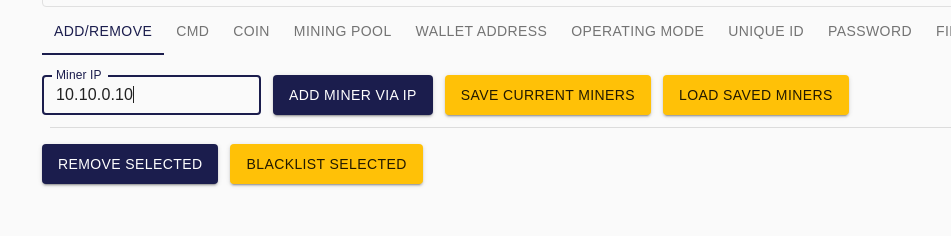
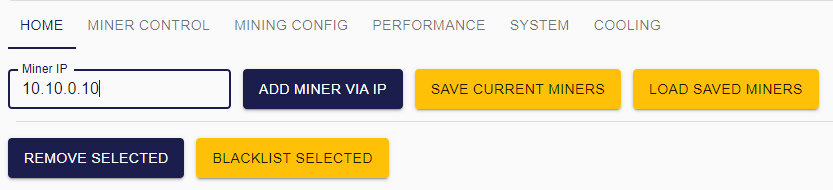
Update dashboard documentation in README

diff --git a/README.md b/README.md
@@ -37,8 +37,7 @@ curl -o- https://raw.githubusercontent.com/nvm-sh/nvm/v0.38.0/install.sh | bash 
 export NVM_DIR="$([ -z "${XDG_CONFIG_HOME-}" ] && printf %s "${HOME}/.nvm" || printf %s "${XDG_CONFIG_HOME}/nvm")"
 [ -s "$NVM_DIR/nvm.sh" ] && \. "$NVM_DIR/nvm.sh" # This loads nvm
 # end of nvm stuff
-nvm install 14
-npm i -g @electron-forge/cli
+nvm install 16
 cd /path/to/epic-dashboard
 npm i
 ```
@@ -59,16 +58,23 @@ To build only a specific executable open the makefile and run the appropriate co
 1. Download the dashboard software from [here](https://github.com/epicblockchain/epic-dashboard/releases/)
 2. Use the sidebar on the left to navigate to tabs.
 
-## Instructions for VPN users
+## Scanning for miners
 
-Note that the software uses MDNS to discover miners on your network. This functionality does not work over a VPN. You will need to navigate to the Miner List tab and manually add miners.
+To discover miners on your network, you can first try using the "Quick Miner Scan" in the sidebar. This will scan the network the computer is currently connected to for miners.
+
+![quick scan](docs/images/quickscan.png)
+
+If none are found or you want to scan additional networks, click on "Advanced Scan" in the sidebar. Enter in the address of the network to scan, and then choose the prefix. An explanation can be found [here](https://docs.netgate.com/pfsense/en/latest/network/cidr.html).
+
+In short, if you ip is 192.168.12.1, /24 will scan 192.168.12.0-255 (256 ips), and /16 will scan 192.168.0-255.0-255 (65,536 ips). If /16 is chosen, the scan may take up to 1 minute depending on the speed of your network and computer.
+
+![advanced scan](docs/images/scan.png)
 
 ## Miner Settings
 
 To modify the settings for the miner use the sidebar to navigate to the Table tab. If the sidebar is not open it can be opened using the button in the top left of the screen.
 
-![expand sidebar](docs/images/expand_sidebar.png)
-![click settings](docs/images/click_table.png)
+![expand sidebar](docs/images/table.png)
 
 You must select which miners to apply the settings to by clicking the checkboxes on the left side of each row in the table.
 
@@ -78,88 +84,71 @@ By default all of the miners have a password of **letmein**.
 
 After clicking apply you will recieve feedback letting you know if the request succeeded or failed.
 
-### Updating Coin
+### Control your miner
 
-Click on the "COIN" tab. Fill out the fields and click apply.
+Click on the "MINER CONTROL" tab. Fill out the password and then click the desired command. Your miner may take a few to reboot.
 
-![coin](docs/images/coin.png)
+![reboot](docs/images/miner_control.png)
 
-### Updating mining pool
+### Updating Mining Configuration
 
-Click on the "MINING POOL" tab. Fill out the fields and click apply.
+Click on the "MINING CONFIG" tab. The latest firmware supports 3 mining pools in case a connection cannot be made, which takes precedence from top to bottom. "Unique ID" will append the unique miner id at the end of the worker name if enabled.
 
-![mining pool](docs/images/mining_pool.png)
+To copy a miner's config into the fields, select the miner and then click the "Copy miner settings" button. All fields can also be cleared with the "clear fields" button.
 
-### Updating wallet address
+![mining config](docs/images/mining_config.png)
 
-Click on the "WALLET ADDRESS" tab. Fill out the fields and click apply.
+### Updating Performance Preset
 
-![wallet address](docs/images/wallet_address.png)
+Click on the "PERFORMANCE" tab. Choose the desired preset, fill out the fields and click apply. Your miner may take up to 15 minutes to recalibrate with the new preset.
 
-### Updating operating mode
+![performance preset](docs/images/performance.png)
 
-Click on the "OPERATING MODE" tab. Fill out the fields and click apply. Your miner may take up to 15 minutes to recalibrate with the new operating mode.
+### Update System settings
 
-![operating mode](docs/images/operating_mode.png)
+These are under the "SYSTEM" tab.
 
-### Updating appending unique id to miner name
+#### Update miner firmware
 
-Click on the "UNIQUE ID" tab. Fill out the fields and click apply. This adds or removes the unique string at the end of the miner name.
+Go to https://github.com/epicblockchain/epic-miner/releases and download the latest release of the firmware. Extract the zip file and note its location. Click browse and select the location of the extracted zip folder. Select the file ending in .swu within that folder. The "Maintain config over update" will save your settings across the update. Fill out the rest of the fields and click apply. You miner will take up to 15 minutes to reboot and recalibrate.
 
-![unique id](docs/images/unique_id.png)
+#### Update miner password
 
-### Updating password
+Enter your new password, confirm it, then the current miner password and click apply.
 
-Click on the "PASSWORD" tab. Fill out the fields and click apply.
+![system settings](docs/images/system.png)
 
-![password](docs/images/password.png)
+### Control fan speed
 
-### Updating firmware
+Click on the "COOLING" tab. Set the desired fan speed and apply.
 
-Use your preferred internet browser to go to https://github.com/epicblockchain/epic-miner/releases and download the latest release of the firmware. Extract the zip file and note its location. Click on the "FIRMWARE" tab. Click browse and select the location of the extracted zip folder. Select the file ending in .swu within that folder. The "Maintain config over update" will save your settings across the update. Fill out the rest of the fields and click apply. You miner will take up to 15 minutes to reboot and recalibrate.
-![updating firmware](docs/images/updating_firmware.png)
+**NOTE: There is a minimum fan speed tied to the miner's current preset. If a speed lower than that is sent, it will be ignored, with no feedback.**
 
-### Rebooting your miner
+![fans](docs/images/cooling.png)
 
-Click on the "REBOOT" tab. Fill out the fields and click apply. Your miner may take a few minutes to reboot.
-A softreboot will only restart the mining program.
+### Finding/Identifying a miner
 
-![reboot](docs/images/reboot.png)
+This is if you have multiple miners and need to identify which is which. If you need to identify one, click the lightbulb icon in the ip column. The icon should start blinking, indicating the miner's LED is on. **NOTE: This is not supported by older firmware. See the following section.**
 
-### Recalibrating your miner
+![led icon](docs/images/led1.png)
 
-Click on the "RECALIBRATE" tab. Fill out the fields and click apply. Your miner may take up to 15 minutes to reboot and recalibrate.
+If you need to identify multiple miners or miners with older firmware, you can select the miners and then click the "LED ON/OFF" buttons at the top of the table.
 
-![recalibrate](docs/images/recalibrate.png)
-
-### Control fans on
-
-Click on the "FANS" tab. Fill out the fields and click apply.
-
-![fans](docs/images/fans.png)
-
-### Control LED on miner
-
-Click on the "LED" tab. Fill out the fields and click apply.
-
-![led](docs/images/led.png)
-
-### Miner command tab
-
-Click on the "CMD" tab. Fill out the fields and click apply.
-
-![command](docs/images/cmd.png)
+![led buttons](docs/images/led0.png)
 
 ## Adding/Removing/Blacklisting Miners
 
-Use the interface in the Table page to add, save, blacklist and load miners. These will be stored in a line seperated text file:
+Use the interface in the Table page to add, save, blacklist and load miners. Blacklisted miners will be ignored by quick scan/advanced scan.
+
 ![add miner](docs/images/add_miner0.png)
 ![add miner success](docs/images/add_miner1.png)
 
+These will be stored in a line seperated text file:
+
 #### Linux:
 
--   ~/.ePIC-Dashboard/ipaddr.txt for saving miners
--   ~/.ePIC-Dashboard/blacklist.txt for blacklisting miners by their hostname and mdns broadcast: (e.g. "epicminer340035.\_epicminer.\_tcp.local")
+-   ~/.ePIC-Dashboard/ipaddr.txt contains saved miners by ip
+-   ~/.ePIC-Dashboard/blacklist.txt contains blacklisted miners by their hostname/unique id: (e.g. "epicminer30032518")
 
 #### Windows:
 
